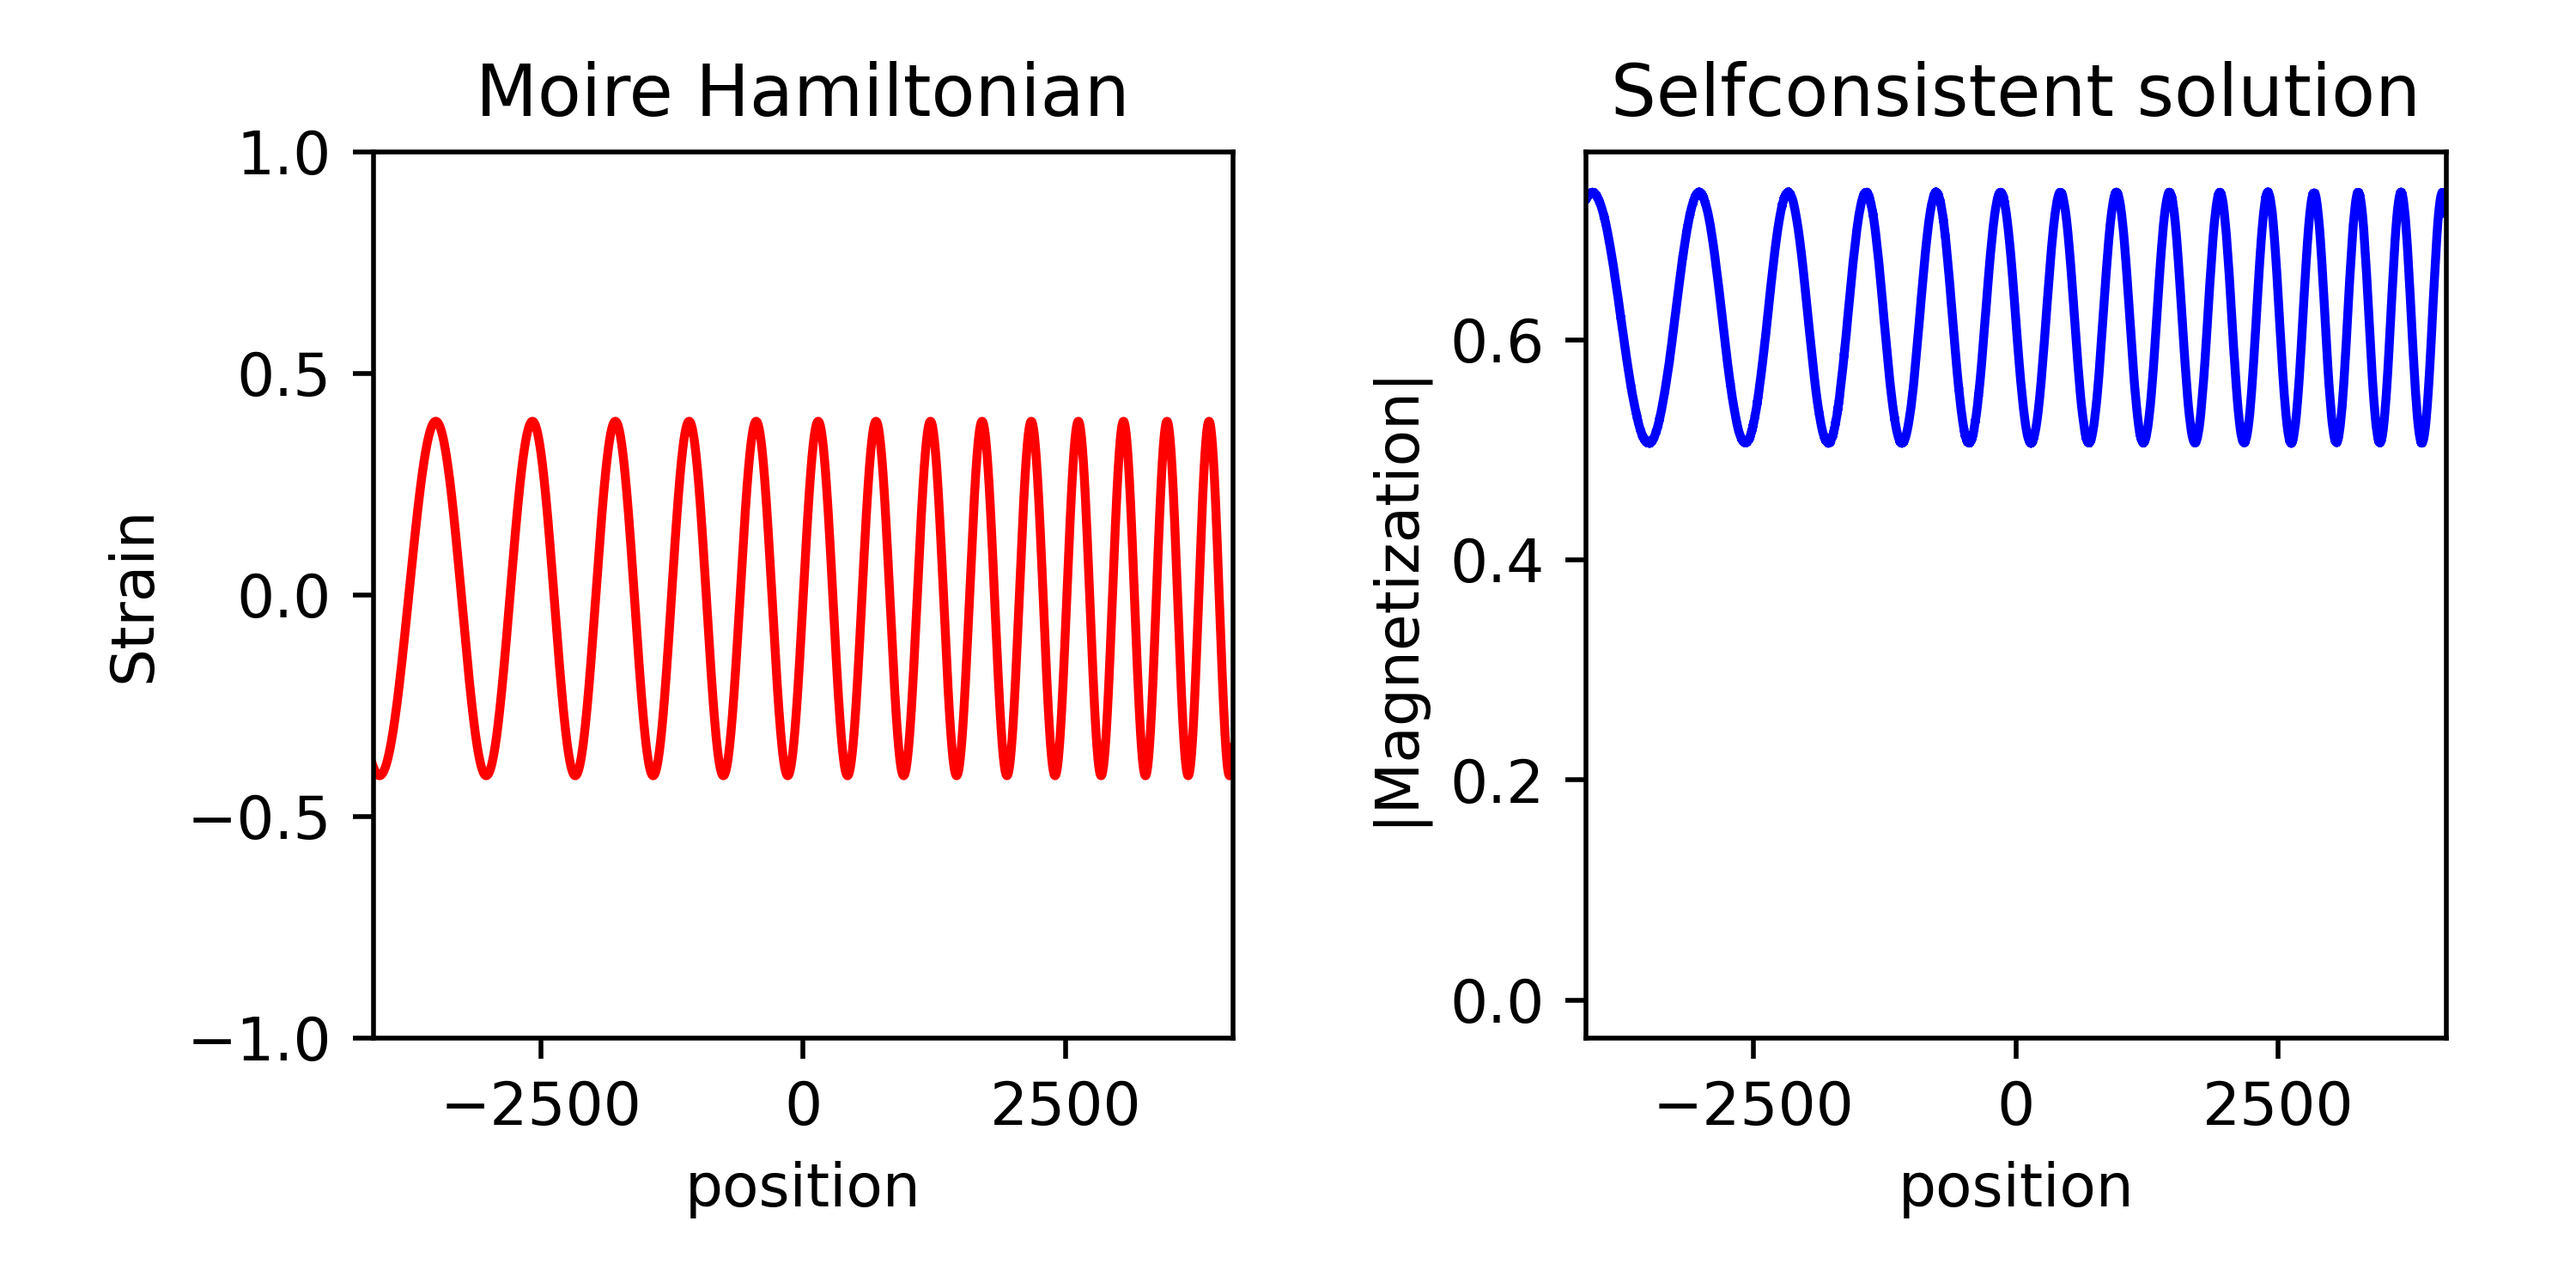
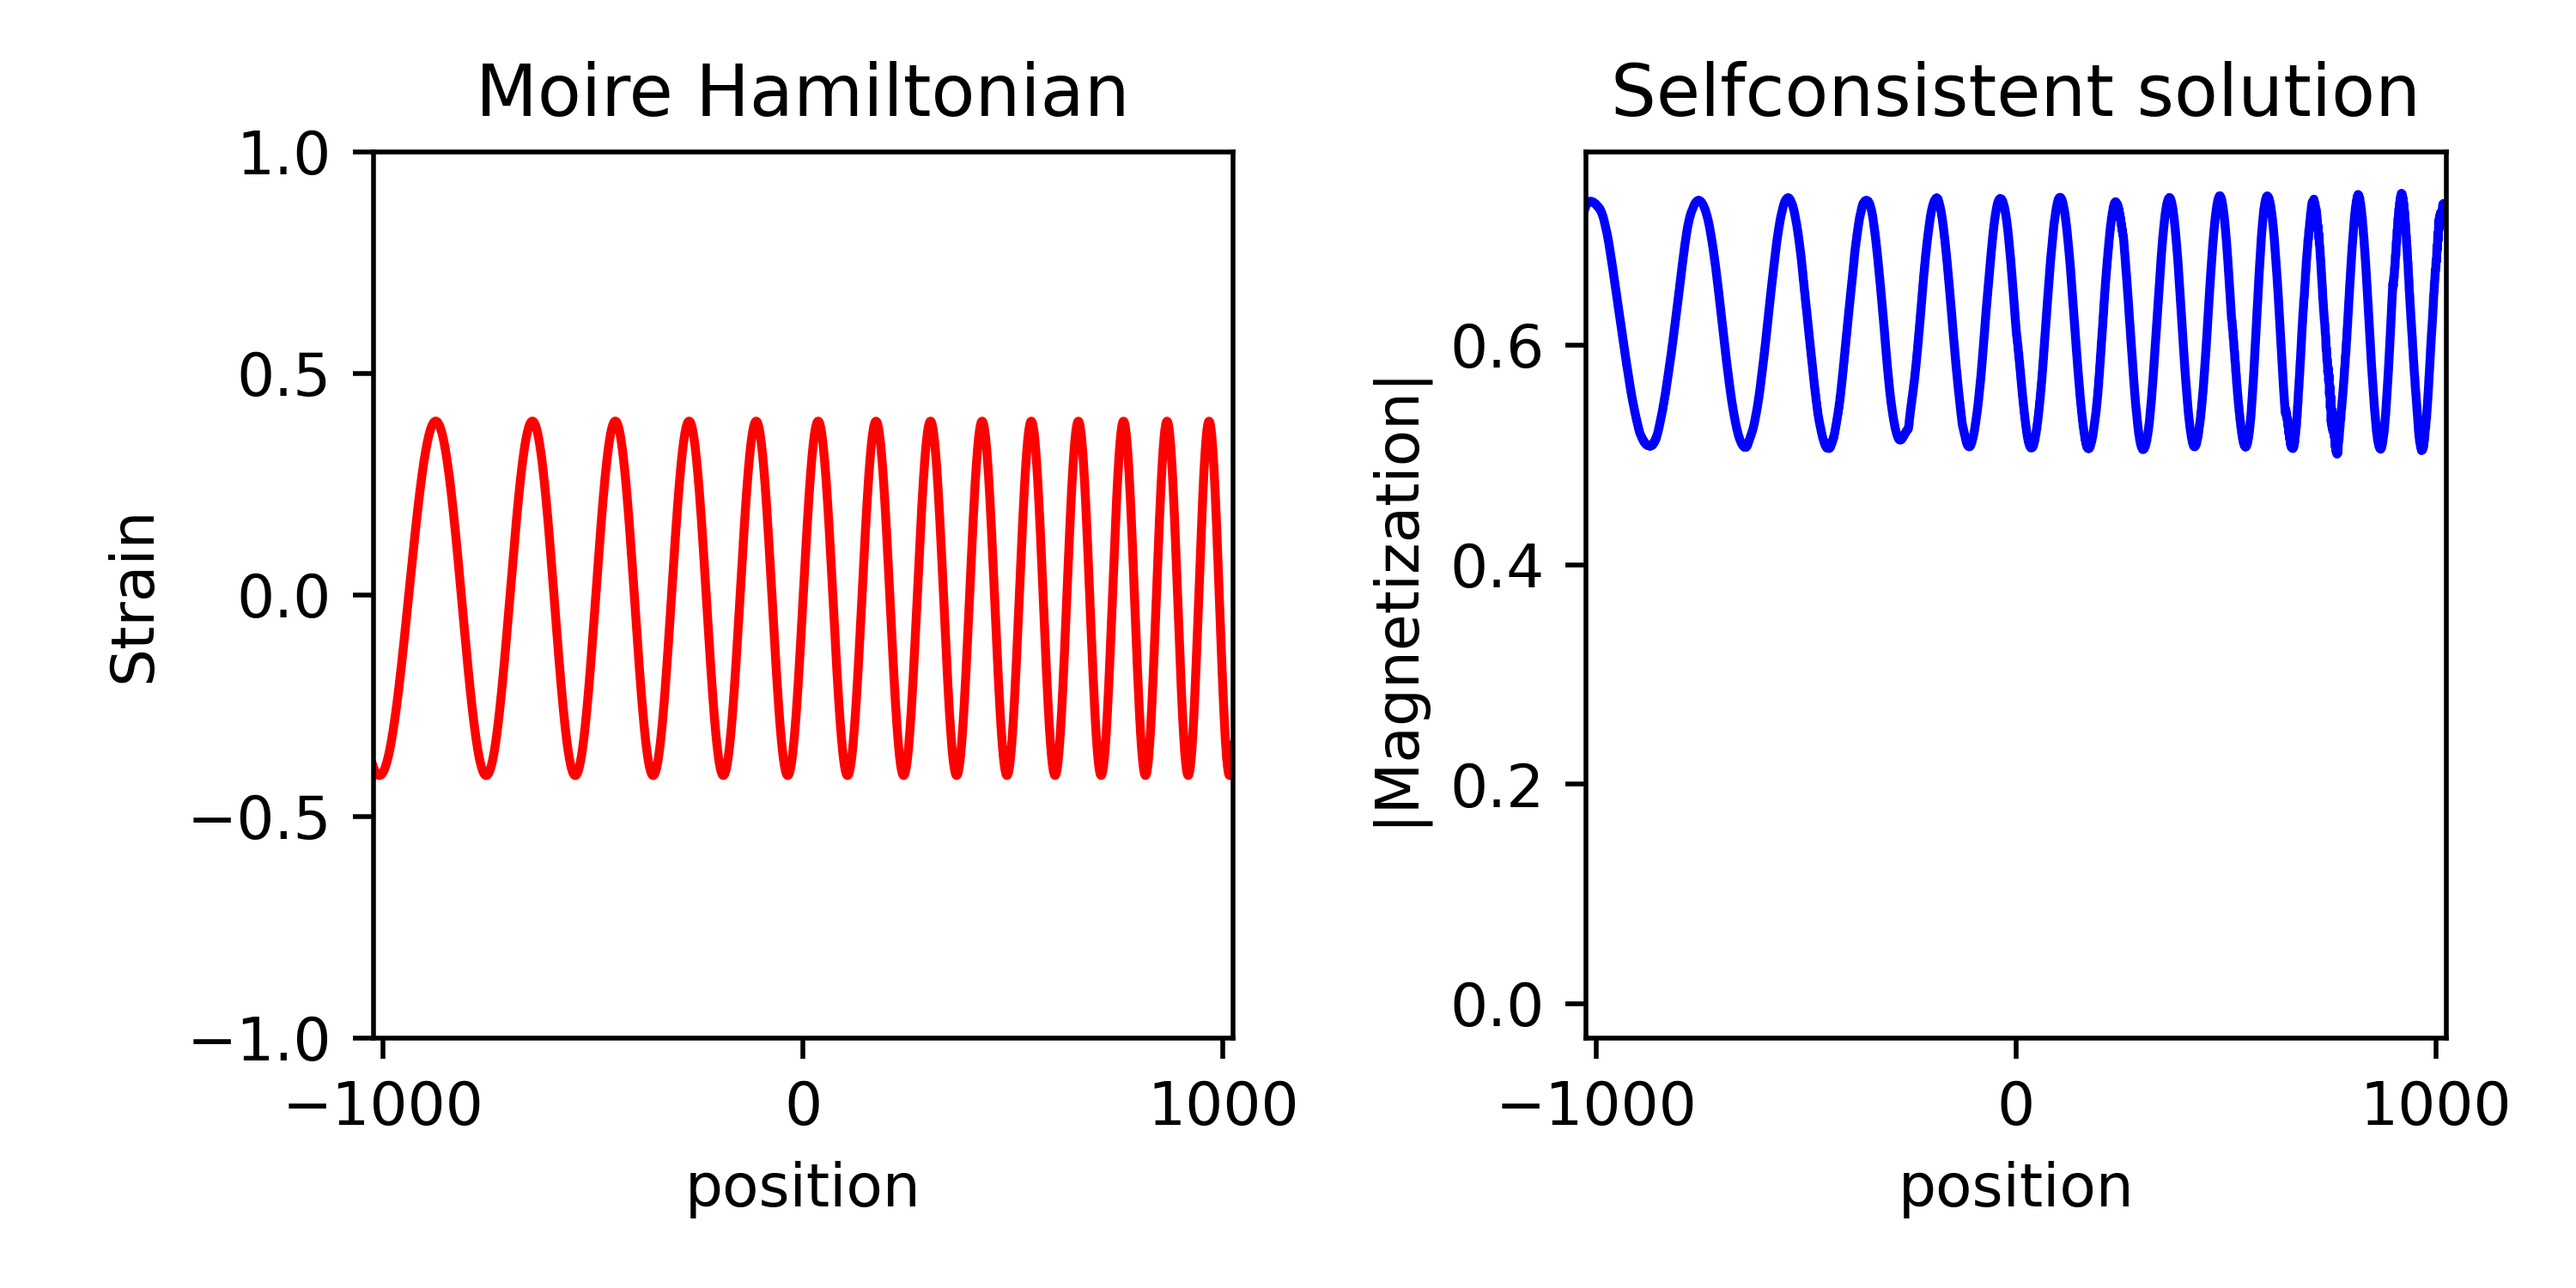
Update

diff --git a/src/qtcipy/tbscftk/dynamicalqtci.py b/src/qtcipy/tbscftk/dynamicalqtci.py
@@ -60,6 +60,7 @@ def initial_qtci_kwargs(SCF,use_dynamical_qtci=False,
         qtci_kwargs = {"qtci_maxm":400} # reasonable guess
         qtci_kwargs["qtci_accumulative"] = True # accumulative mode
         qtci_kwargs["qtci_tol"] = 1e-3 # initial tol
+        qtci_kwargs["qtci_maxfrac"] = 0.05 # initial fraction
         SCF0 = SCF.copy() # make a copy
         SCF0.qtci_kwargs = qtci_kwargs # overwrite
         kw = cp(kwargs) # make a copy
@@ -71,12 +72,13 @@ def initial_qtci_kwargs(SCF,use_dynamical_qtci=False,
         kw["info"] = False
         kw["info_qtci"] = False
         kw["maxite"] = 1 # one iteration
-        mz = SCF0.H0.get_moire()*SCF0.MF[0] # make a guess
+#        mz = SCF0.H0.get_moire()*SCF0.MF[0] # make a guess
         # get some kwargs
         if use_dynamical_qtci: # use an adaptive QTCI
-            frac,qtci_kwargs = optimal_qtci(mz,recursive=True) 
-            SCF0.qtci_kwargs = qtci_kwargs # use these ones
+#            frac,qtci_kwargs = optimal_qtci(mz,recursive=True) 
+#            SCF0.qtci_kwargs = qtci_kwargs # use these ones
             SCF0.solve(**kw) # one iteration without accuracy
+            SCF0.qtci_kwargs["qtci_maxfrac"] = 0.2 # overwrite
         else: return qtci_kwargs
         print("SCF Initialization DONE")
         return SCF0.qtci_kwargs

diff --git a/src/qtcipy/interpolatecpp.py b/src/qtcipy/interpolatecpp.py
@@ -157,6 +157,7 @@ def get_ci(f, qgrid=None, nb=1,
 
 def accumulative_train(ci,qtci_tol=1e-3,qgrid=None,
         info_qtci=False,
+        qtci_maxfrac=0.95, # maximum fraction
         nb=1,f=None,**kwargs):
     """Train a QTCI using the accumulative mode"""
     if info_qtci:
@@ -169,13 +170,15 @@ def accumulative_train(ci,qtci_tol=1e-3,qgrid=None,
             ci.iterate(1) # iterate
             toli = ci.pivotError[len(ci.pivotError)-1] # tolerance in evaluated points
             tols.append(toli) # store
-        if np.max(tols)<qtci_tol: 
+        if np.mean(tols)<qtci_tol: 
 #            print("Accumulative reached error, stopping",np.min(tols))
             break # stop loop
         # other stopping criteria
         npoints = 2**nb
         nev = len(get_cache_info(f)[0])
-        if nev/npoints>0.95: 
+        if nev/npoints>qtci_maxfrac: # above threshold 
+#            print("Fraction",qtci_maxfrac)
+#            exit()
 #            print("Almost all points evaluated, stopping")
             break
     ci = xfacpy.to_tci2(ci) # to type two

diff --git a/src/qtcipy/tbscftk/scf.py b/src/qtcipy/tbscftk/scf.py
@@ -27,6 +27,7 @@ class SCF_Hubbard():
         """Perform the SCF loop"""
         from .hubbard import SCF_Hubbard
         from .dynamicalqtci import initial_qtci_kwargs
+        print(self.qtci_kwargs)
         self.qtci_kwargs = initial_qtci_kwargs(self,**kwargs)
         for key in self.qtci_kwargs: kwargs[key] = self.qtci_kwargs[key]
         return SCF_Hubbard(self,**kwargs)

diff --git a/examples/README_examples/strainedmoire_KPQTC/main.py b/examples/README_examples/strainedmoire_KPQTC/main.py
@@ -4,7 +4,7 @@ sys.path.append(os.getcwd()+"/../../../src")
 from qtcipy.tbscftk import hamiltonians
 import numpy as np
 
-L = 14 # exponential length, leads to 2**L sites
+L = 12 # exponential length, leads to 2**L sites
 H = hamiltonians.chain(L) # get the Hamiltonian
 
 def f(r):

diff --git a/src/qtcipy/qtcirecipes.py b/src/qtcipy/qtcirecipes.py
@@ -6,7 +6,7 @@ from .qtcirecipestk.qtcikernels import random_kernel as random_qtci_kernel
 
 
 methods = ["maxm","accumulative"]
-methods = ["accumulative"]
+#methods = ["accumulative"]
 
 
 #### Acummulative mode has segfault randomly ####
